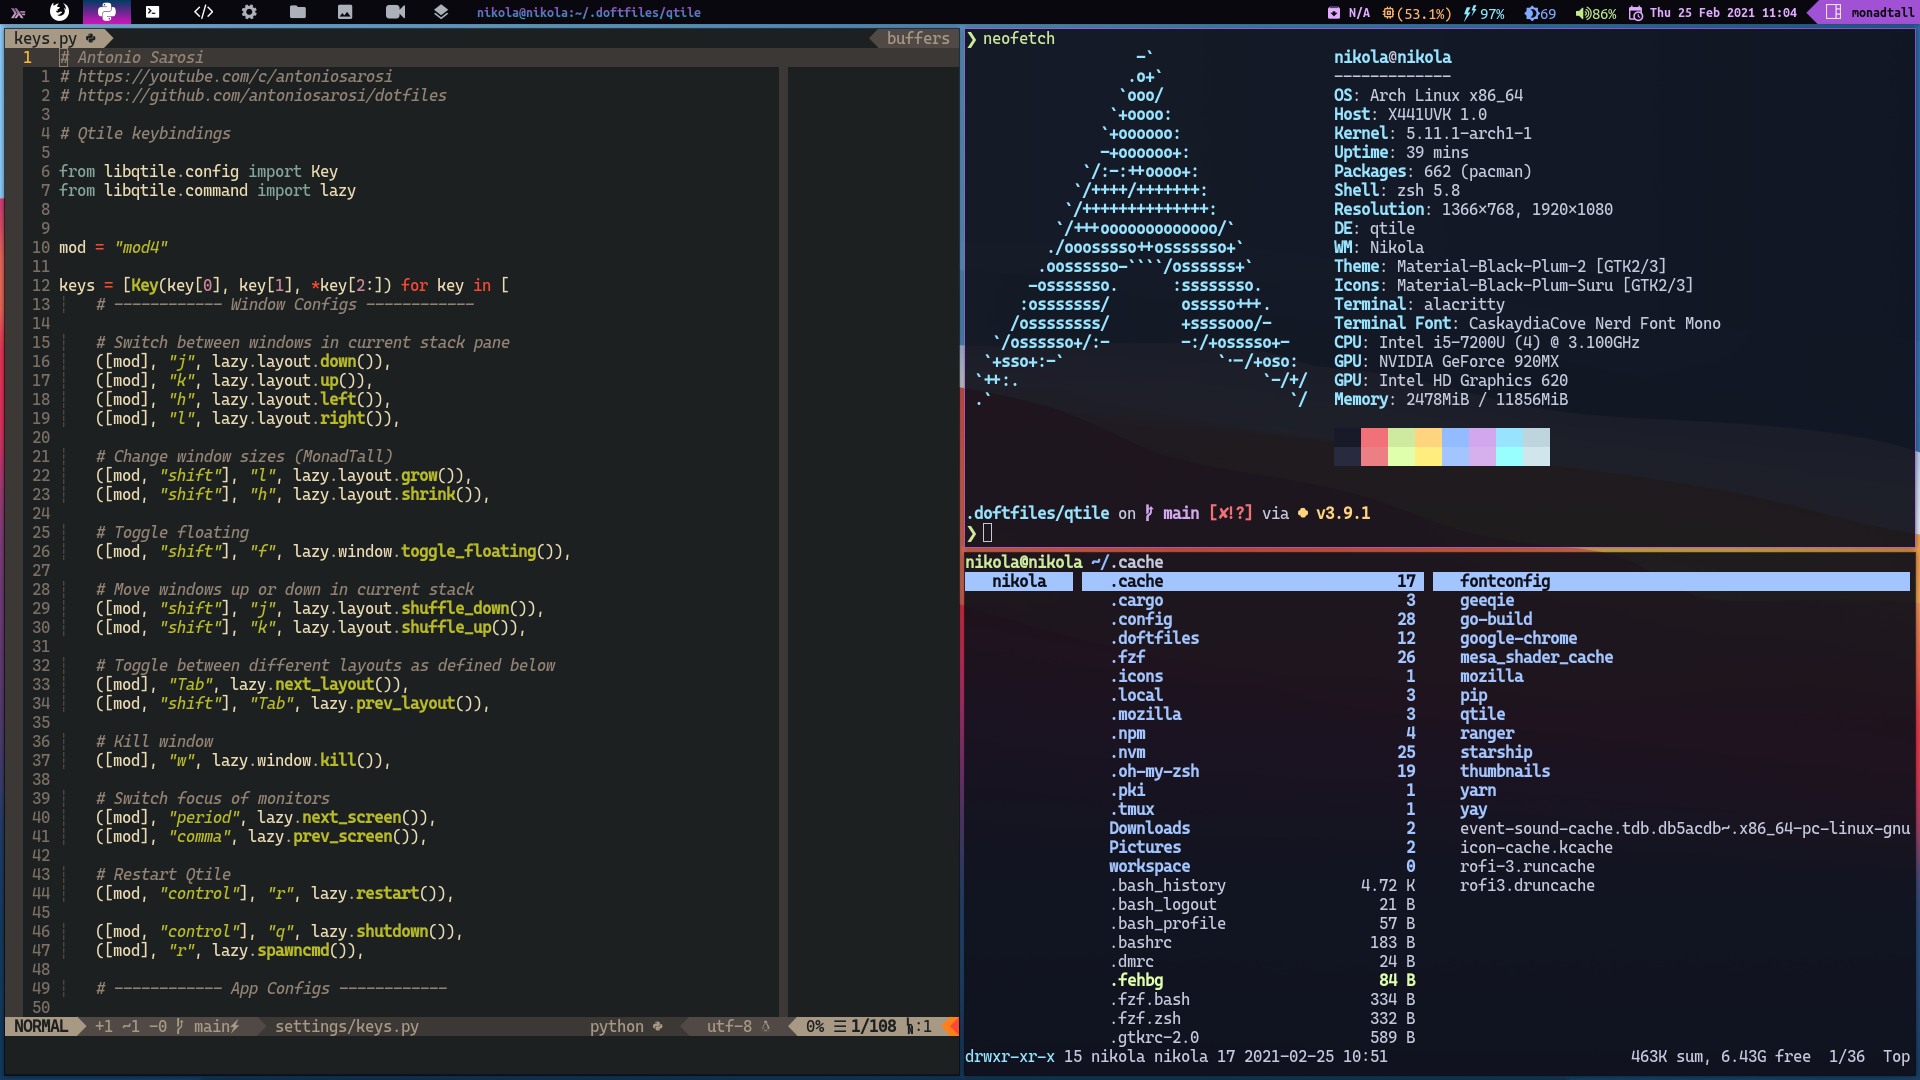
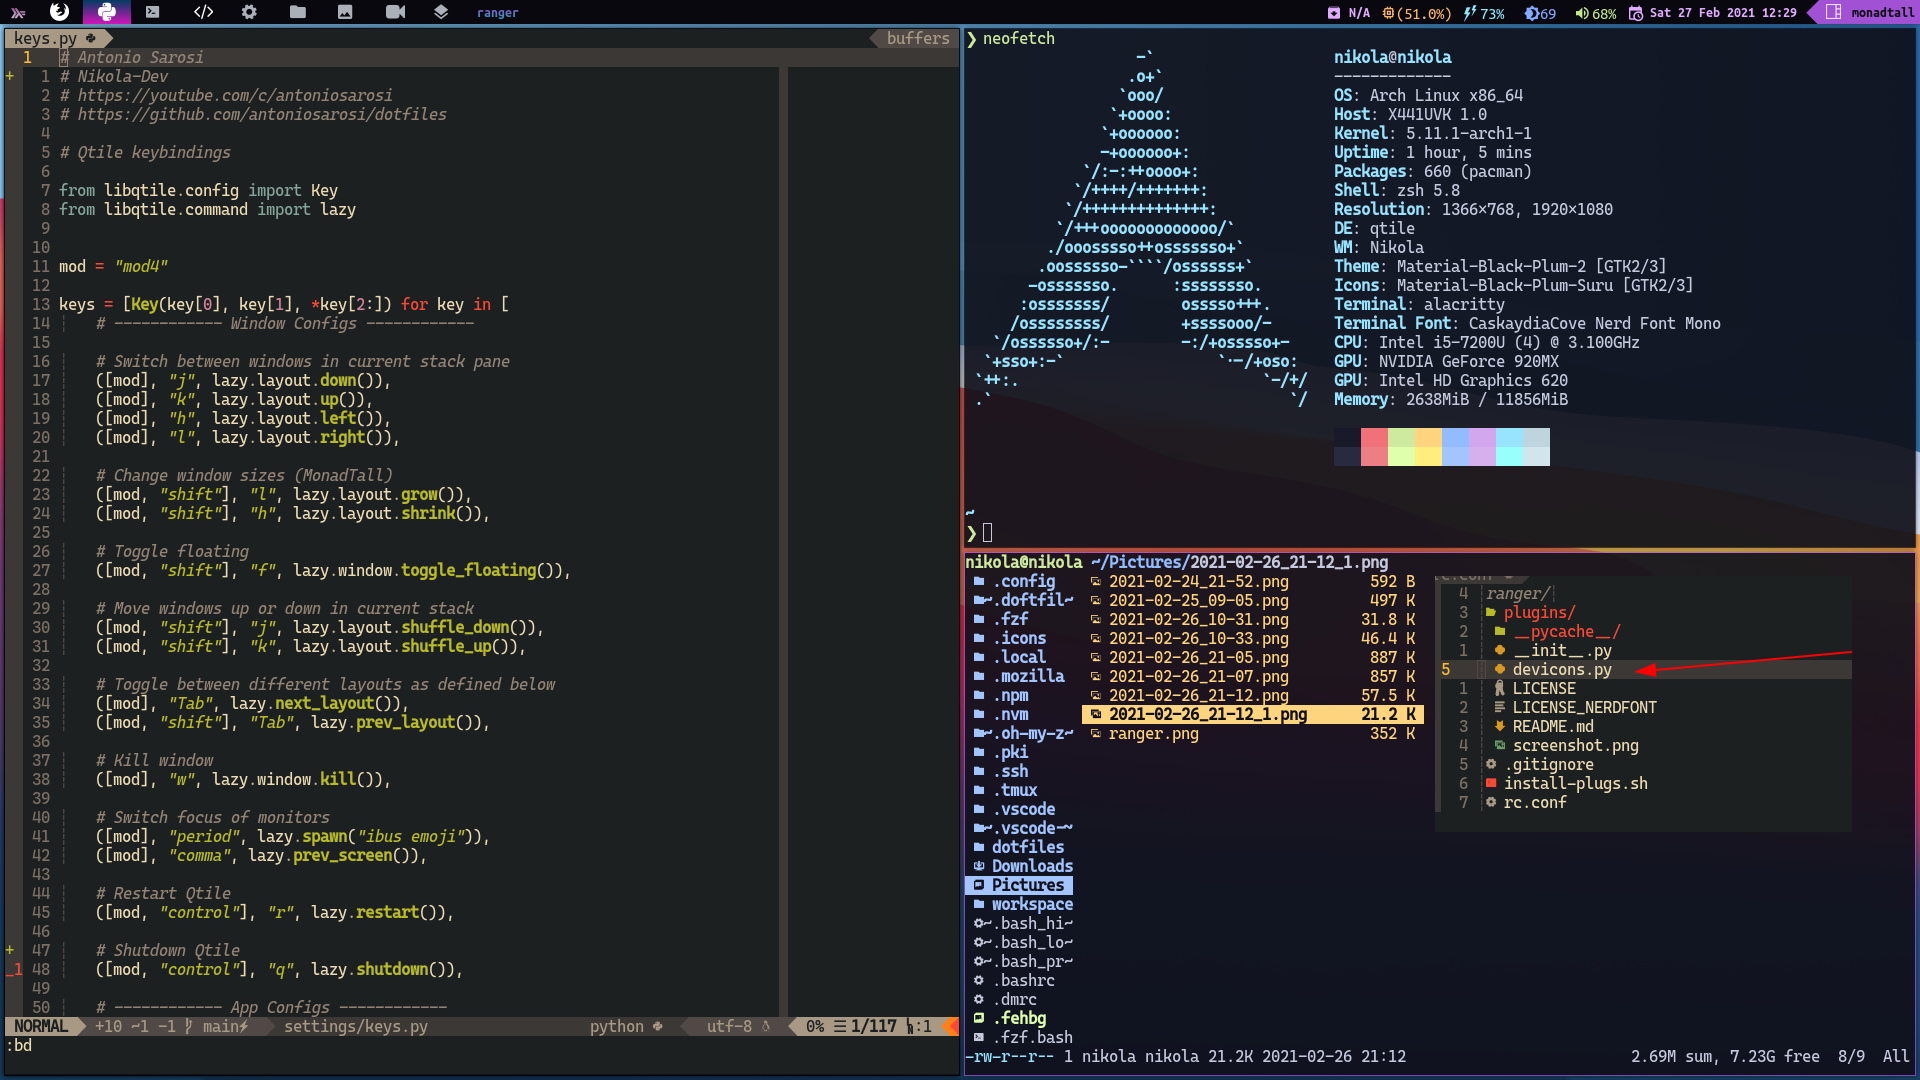
agregando precaucion en el readme principal

diff --git a/.config/qtile/settings/keys.py b/.config/qtile/settings/keys.py
@@ -1,4 +1,5 @@
 # Antonio Sarosi
+# Nikola-Dev
 # https://youtube.com/c/antoniosarosi
 # https://github.com/antoniosarosi/dotfiles
 
@@ -44,8 +45,8 @@ keys = [Key(key[0], key[1], *key[2:]) for key in [
     # Restart Qtile
     ([mod, "control"], "r", lazy.restart()),
 
+    # Shutdown Qtile
     ([mod, "control"], "q", lazy.shutdown()),
-    ([mod], "r", lazy.spawncmd()),
 
     # ------------ App Configs ------------
 
@@ -55,12 +56,20 @@ keys = [Key(key[0], key[1], *key[2:]) for key in [
     # Window Nav
     ([mod, "shift"], "m", lazy.spawn("rofi -show")),
 
-    # Browser
+    # Browsers
     ([mod], "b", lazy.spawn("firefox")),
     ([mod], "g", lazy.spawn("google-chrome-stable")),
+
+    # Shutdown PC
     ([mod], "a", lazy.spawn("shutdown now")),
+
+    # Terminal + Tmux
     ([mod], "v", lazy.spawn("alacritty -e tmux")),
+
+    # Trello
     ([mod], "t", lazy.spawn("trello")),
+
+    # Notion
     ([mod], "n", lazy.spawn("notion-app")),
 
     # Discord

diff --git a/.config/qtile/config.py b/.config/qtile/config.py
@@ -2,6 +2,7 @@
 # http://www.qtile.org/
 
 # Antonio Sarosi
+# Nikola-Dev
 # https://youtube.com/c/antoniosarosi
 # https://github.com/antoniosarosi/dotfiles
 from libqtile import hook

diff --git a/.config/qtile/settings/groups.py b/.config/qtile/settings/groups.py
@@ -1,4 +1,5 @@
 # Antonio Sarosi
+# Nikola-Dev
 # https://youtube.com/c/antoniosarosi
 # https://github.com/antoniosarosi/dotfiles
 

diff --git a/.config/qtile/settings/layouts.py b/.config/qtile/settings/layouts.py
@@ -1,4 +1,5 @@
 # Antonio Sarosi
+# Nikola-Dev
 # https://youtube.com/c/antoniosarosi
 # https://github.com/antoniosarosi/dotfiles
 

diff --git a/.config/qtile/settings/screens.py b/.config/qtile/settings/screens.py
@@ -1,4 +1,5 @@
 # Antonio Sarosi
+# Nikola-Dev
 # https://youtube.com/c/antoniosarosi
 # https://github.com/antoniosarosi/dotfiles
 

diff --git a/.config/qtile/settings/theme.py b/.config/qtile/settings/theme.py
@@ -1,4 +1,5 @@
 # Antonio Sarosi
+# Nikola-Dev
 # https://youtube.com/c/antoniosarosi
 # https://github.com/antoniosarosi/dotfiles
 

diff --git a/.config/nvim/README.md b/.config/nvim/README.md
@@ -20,6 +20,7 @@ sudo pacman -S python python-pip ruby rubygems
 # Download neovim packages
 pip install neovim
 python3 -m pip install --user --upgrade pynvim
+pip install trash-cli
 gem install neovim
 sudo npm i -g neovim
 

diff --git a/.config/nvim/README.es.md b/.config/nvim/README.es.md
@@ -20,6 +20,7 @@ sudo pacman -S python python-pip ruby rubygems
 # Paquetes de neovim
 pip install neovim
 python3 -m pip install --user --upgrade pynvim
+pip install trash-cli
 gem install neovim
 sudo npm i -g neovim
 

diff --git a/README.md b/README.md
@@ -1,3 +1,5 @@
+# Ignore this readme, it's under construction :construction_worker:
+
 # Copy configs
 
 ```sh
